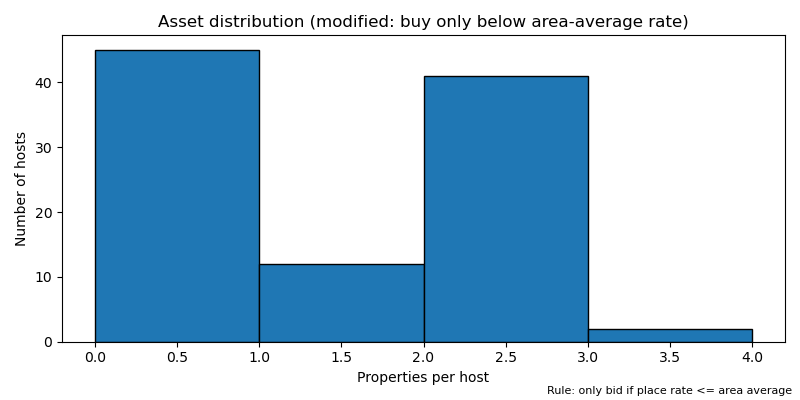
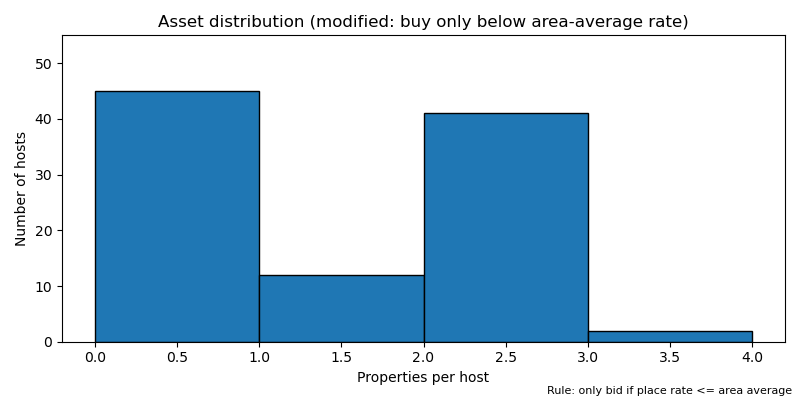
chore: align asset histograms to same y-axis

diff --git a/main.py b/main.py
@@ -86,6 +86,7 @@ if __name__ == "__main__":
     plt.hist(asset_counts_v0, bins=range(0, max_assets + 2), edgecolor="black")
     plt.xlabel("Properties per host")
     plt.ylabel("Number of hosts")
+    plt.ylim(0, 55)  # same y-axis across versions
     plt.title("Asset distribution (original: spend 100%, any neighbor)")
     plt.figtext(
         0.99,
@@ -107,6 +108,7 @@ if __name__ == "__main__":
     plt.hist(asset_counts_v1, bins=range(0, max_assets_v1 + 2), edgecolor="black")
     plt.xlabel("Properties per host")
     plt.ylabel("Number of hosts")
+    plt.ylim(0, 55)  # same y-axis across versions
     plt.title("Asset distribution (modified: buy only below area-average rate)")
     plt.figtext(
         0.99,
